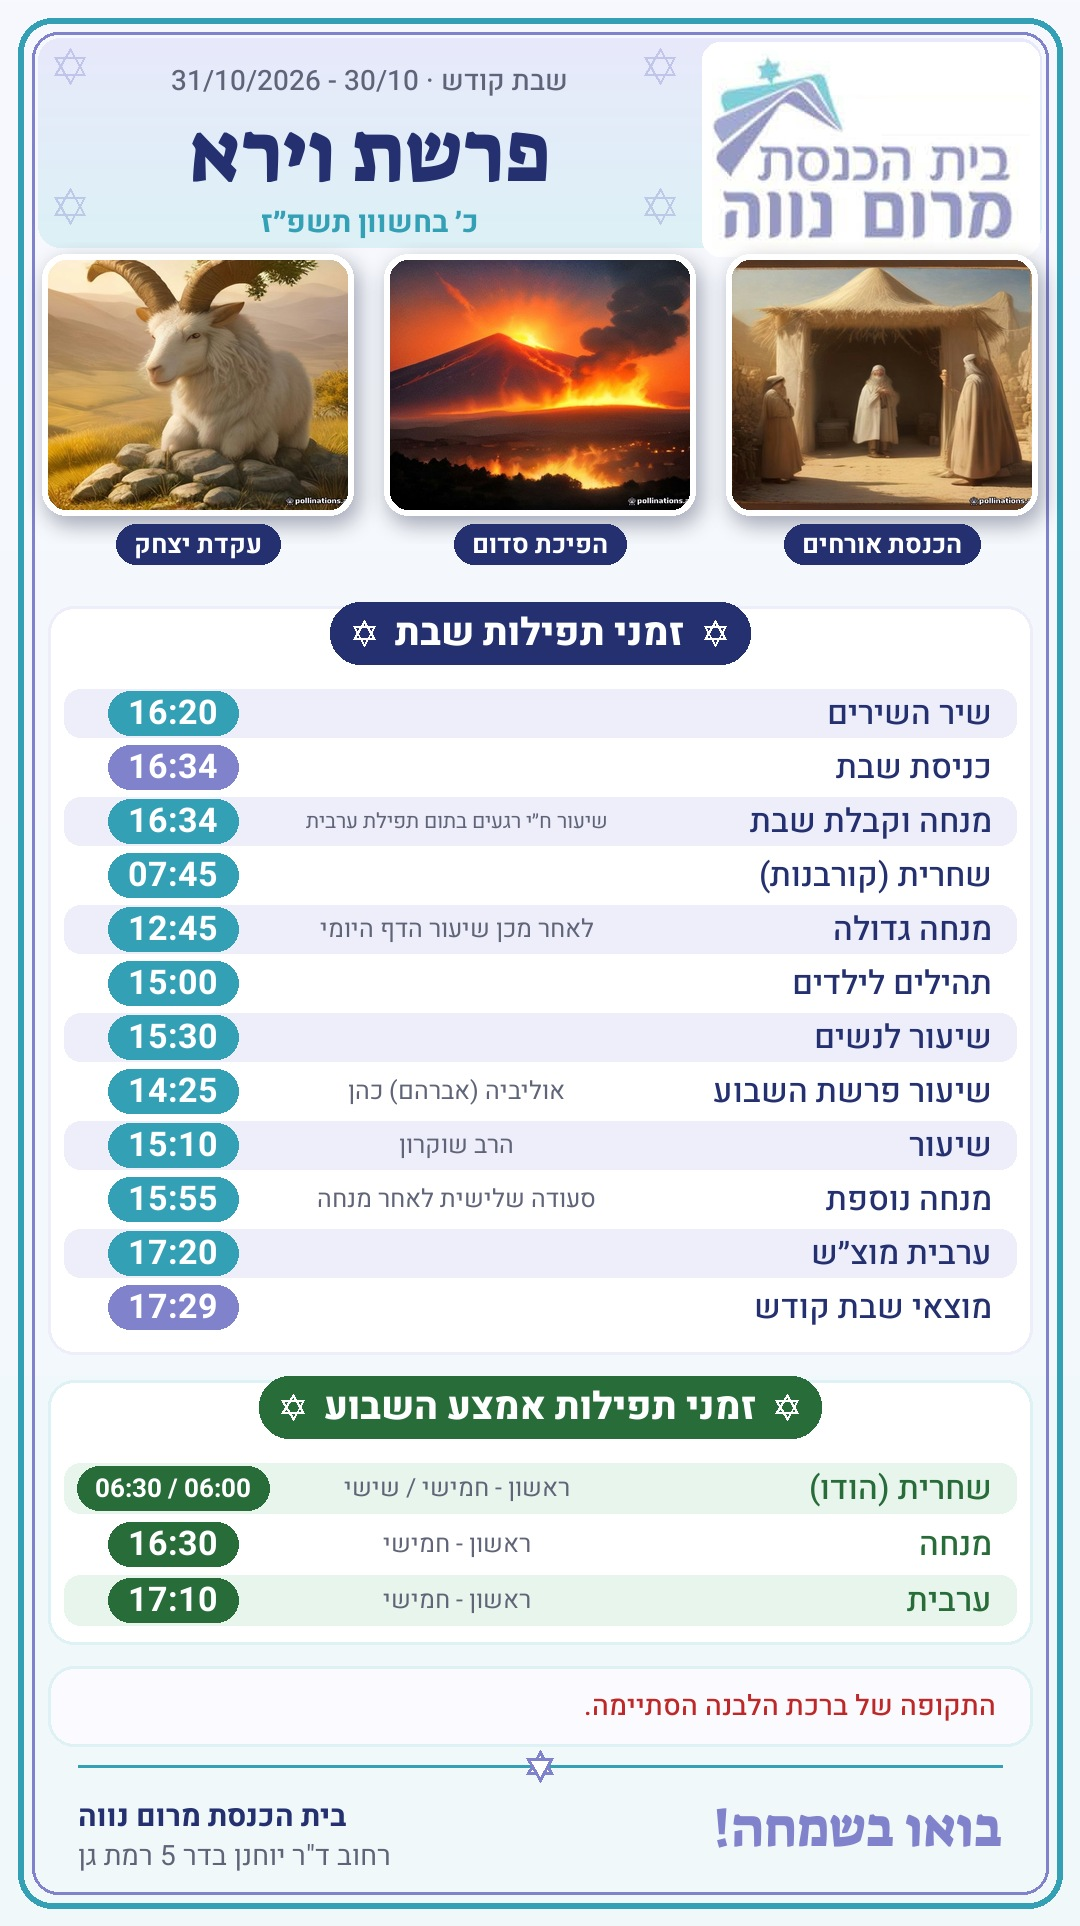
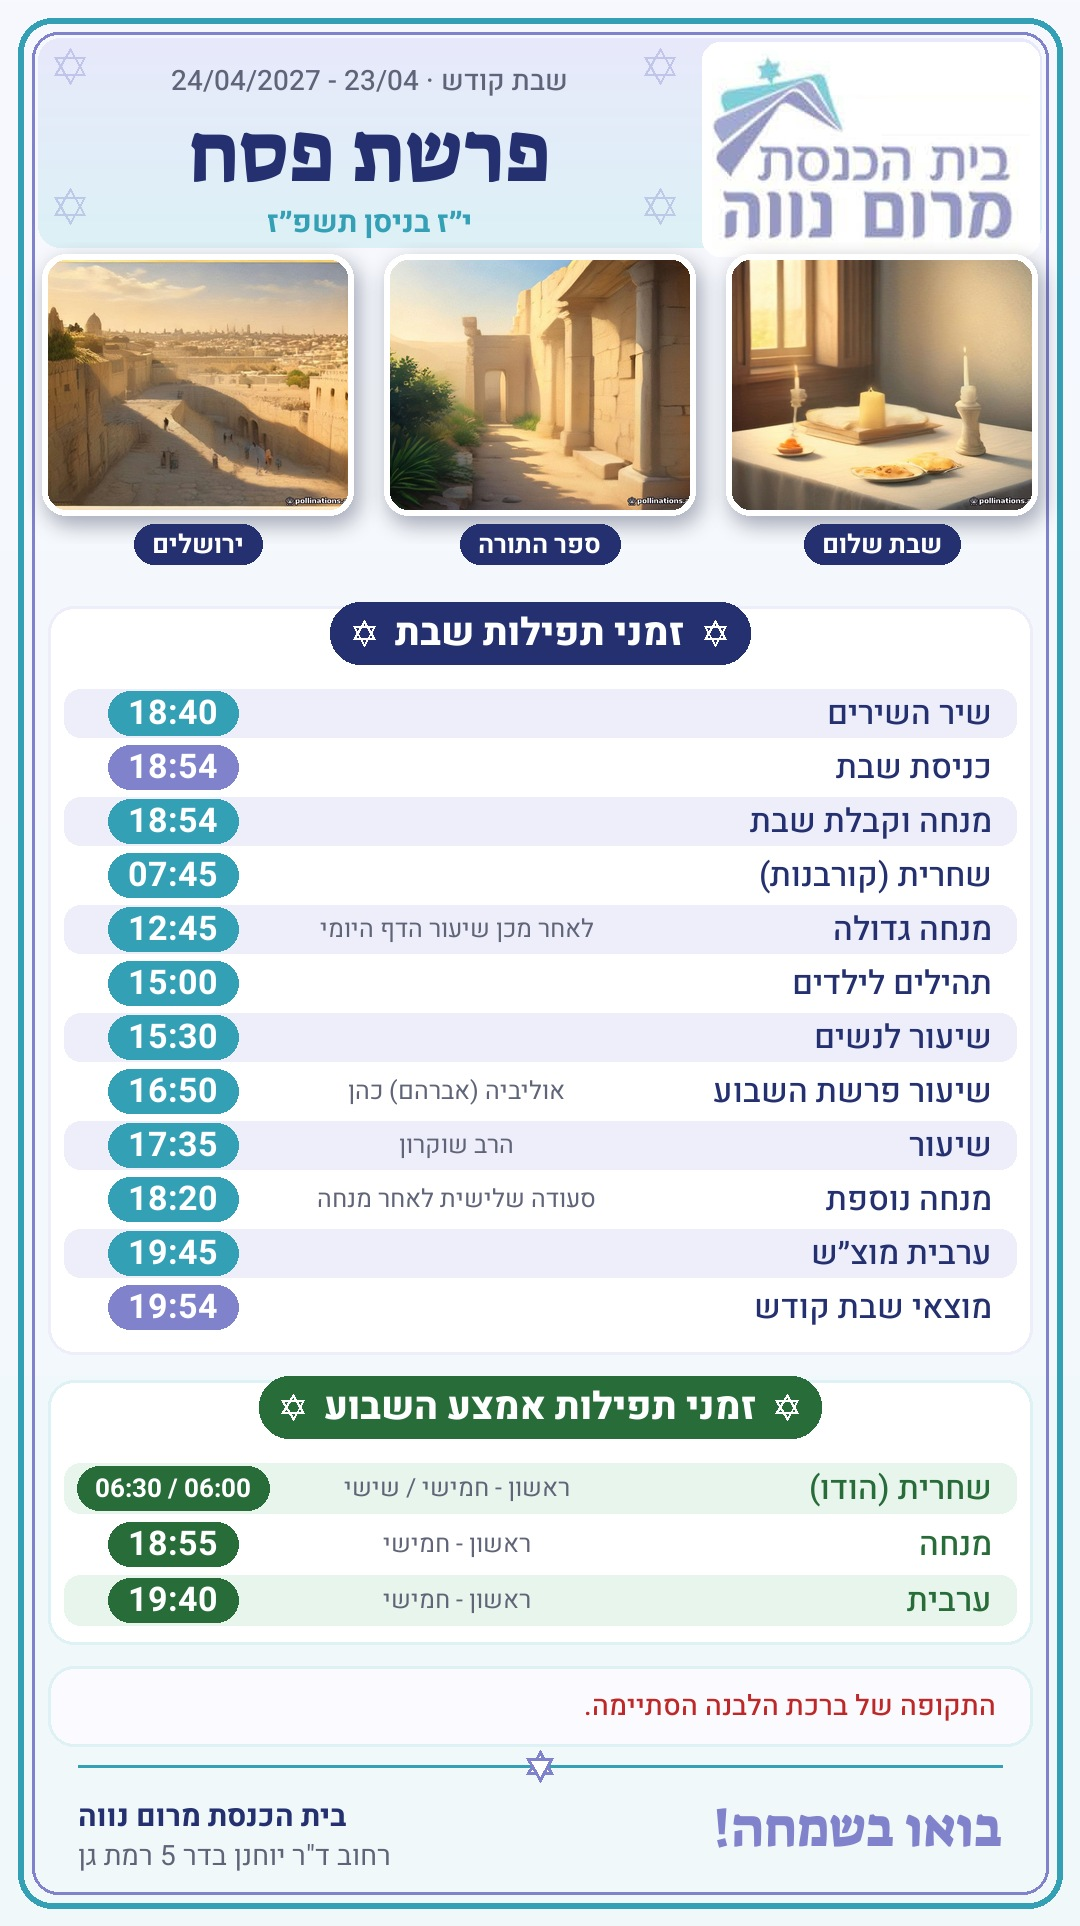
חורץ/קיץ

diff --git a/horaires_shabbat.py b/horaires_shabbat.py
@@ -536,6 +536,23 @@ class ShabbatScheduleGenerator:
         ascii_str = re.sub(r'[^\w\s-]', '', ascii_str).strip()
         return re.sub(r'\s+', '_', ascii_str)
 
+    @staticmethod
+    def season_for(day):
+        """Saison d'un Chabbat donné, selon l'heure légale israélienne réelle de ce samedi
+        (au lieu de dates fixes 29/3 – 26/10 qui ne tombent pas toujours sur le changement d'heure)."""
+        if isinstance(day, datetime):
+            day = day.date()
+        saturday = day + timedelta(days=(5 - day.weekday()) % 7)
+        noon = pytz.timezone("Asia/Jerusalem").localize(datetime.combine(saturday, datetime.min.time()).replace(hour=12))
+        return "summer" if noon.dst() else "winter"
+
+    def tehilim_text(self, times):
+        """Hiver : une séance. Été : deux séances (ordre chronologique)."""
+        if times.get("season", self.season) == "summer":
+            a, b = sorted((times["tehilim_ete_1"], times["tehilim_ete"]))
+            return f"{self.format_time(a)} / {self.format_time(b)}"
+        return self.format_time(times["tehilim"])
+
     def determine_season(self):
         today = datetime.now()
         year = today.year
@@ -818,25 +835,29 @@ class ShabbatScheduleGenerator:
     def calculate_times(self, shabbat_start, shabbat_end):
         start_minutes = shabbat_start.hour * 60 + shabbat_start.minute
         end_minutes = shabbat_end.hour * 60 + shabbat_end.minute
-        tehilim_ete = self.round_to_nearest_five(16 * 60+30)
-        tehilim_hiver = self.round_to_nearest_five(15 * 60)
-        tehilim = tehilim_ete if self.season == "summer" else tehilim_hiver
+        tehilim_ete_1 = self.round_to_nearest_five(14 * 60)   # été : 1re séance
+        tehilim_ete = self.round_to_nearest_five(17 * 60)     # été : 2e séance
+        tehilim_hiver = self.round_to_nearest_five(15 * 60)   # hiver : une séance
+        season = self.season_for(shabbat_start)  # saison du Chabbat calculé, pas du jour d'exécution
+        tehilim = tehilim_ete if season == "summer" else tehilim_hiver
 
         times = {
             "mincha_kabbalat": start_minutes,
             "shir_hashirim": self.round_to_nearest_five(start_minutes - 10),
             "shacharit": self.round_to_nearest_five(7 * 60 + 45),
-            "mincha_gdola": self.round_to_nearest_five(12 * 60 + (45 if self.season == "winter" else 60)),
+            "mincha_gdola": self.round_to_nearest_five(12 * 60 + (45 if season == "winter" else 60)),
             "tehilim": tehilim,
             "tehilim_ete": tehilim_ete,
+            "tehilim_ete_1": tehilim_ete_1,
             "tehilim_hiver": tehilim_hiver,
-            "shiur_nashim": self.round_to_nearest_five(15 * 60 + (30 if self.season == "winter" else 60)),
+            "shiur_nashim": self.round_to_nearest_five(15 * 60 + (30 if season == "winter" else 60)),
             "arvit_hol": None,
             "arvit_motsach": None,
             "mincha_2": None,
             "shiur_rav": None,
             "parashat_hashavua": None,
-            "mincha_hol": None
+            "mincha_hol": None,
+            "season": season,
         }
 
         if start_minutes - times["shir_hashirim"] < 10:
@@ -929,11 +950,7 @@ class ShabbatScheduleGenerator:
                     ]
                     for x, y, key in time_positions:
                         if key == 'tehilim':
-                            if self.season == "summer":
-                                formatted_time = f"{self.format_time(times['tehilim_ete'])}" #/{self.format_time(times['tehilim_hiver'])}"
-                                draw.text((x, y), formatted_time, fill="black", font=font)
-                            else:
-                                draw.text((x, y), self.format_time(times['tehilim']), fill="black", font=font)
+                            draw.text((x, y), self.tehilim_text(times), fill="black", font=font)
                         else:
                             draw.text((x, y), self.format_time(times[key]), fill="black", font=font)
 
@@ -1134,8 +1151,7 @@ class ShabbatScheduleGenerator:
         fonts = Fonts(resources, self.font_path, self.arial_bold_path)
 
         times_text = {k: self.format_time(v) for k, v in times.items() if isinstance(v, int)}
-        if self.season == "summer":
-            times_text["tehilim"] = self.format_time(times["tehilim_ete"])
+        times_text["tehilim"] = self.tehilim_text(times)
         times_text["candle_lighting"] = str(candle_lighting)
         times_text["shabbat_end"] = shabbat_end.strftime("%H:%M")
 
@@ -1146,8 +1162,7 @@ class ShabbatScheduleGenerator:
         # Chabbat en heure d'hiver (vraie heure légale israélienne ce samedi) :
         # note sur la ligne « מנחה וקבלת שבת », rien d'autre ne change
         row_notes = {}
-        tz_il = pytz.timezone("Asia/Jerusalem")
-        if not tz_il.localize(datetime.combine(saturday, datetime.min.time()).replace(hour=12)).dst():
+        if self.season_for(saturday) == "winter":
             row_notes["mincha_kabbalat"] = "שיעור ח״י רגעים בתום תפילת ערבית"
 
         img = render_schedule(
@@ -1184,7 +1199,7 @@ class ShabbatScheduleGenerator:
             "מנחה": self.format_time(times["mincha_kabbalat"]),
             "שחרית": self.format_time(times["shacharit"]),
             "מנחה גדולה": self.format_time(times["mincha_gdola"]),
-            "תהילים קיץ": self.format_time(times["tehilim_ete"]),
+            "תהילים קיץ": f'{self.format_time(times["tehilim_ete_1"])} / {self.format_time(times["tehilim_ete"])}',
             "תהילים חורף": self.format_time(times["tehilim_hiver"]),
             "שיעור לנשים": self.format_time(times["shiur_nashim"]),
             "שיעור פרשה": self.format_time(times["parashat_hashavua"]),

diff --git a/dynamic_design.py b/dynamic_design.py
@@ -338,7 +338,7 @@ def render_schedule(*, resources: Path, template_path: Path, fonts: Fonts, paras
             draw_text(d, (note_cx, cy), note, nfit, GREY, anchor="mm")
         t = times_text.get(key, "")
         if t:
-            time_pill(cy, t, TEAL if key not in ("candle_lighting", "shabbat_end") else LAVENDER)
+            time_pill(cy, t, TEAL if key not in ("candle_lighting", "shabbat_end") else LAVENDER, wide="/" in t)
         y += row_h
 
     # --- Section semaine --------------------------------------------------------------
